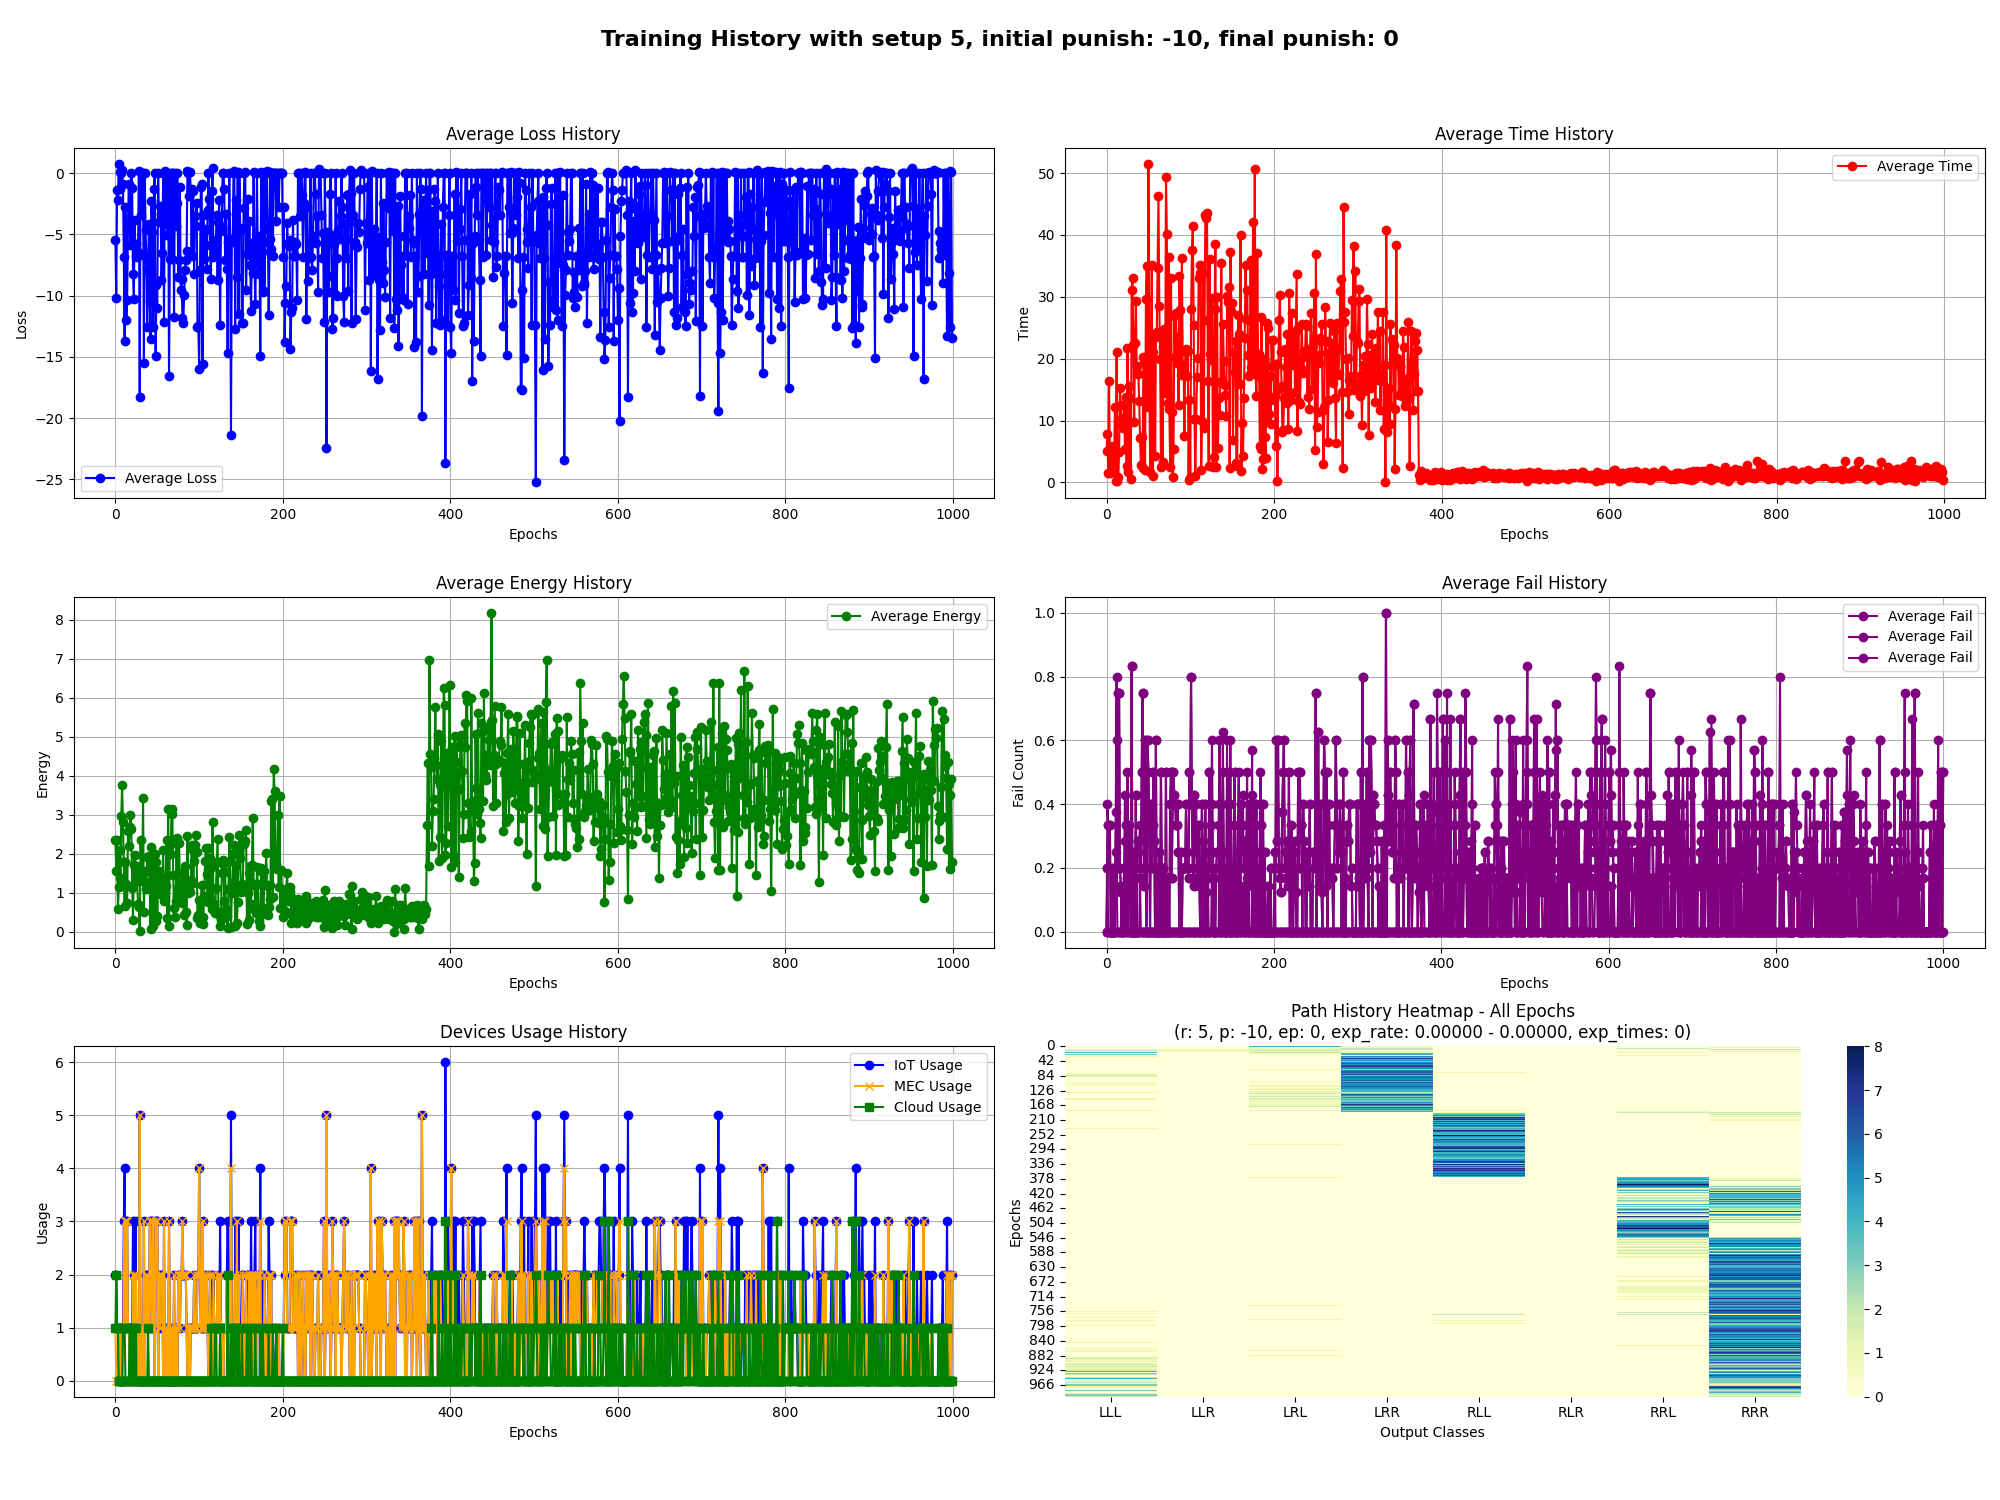
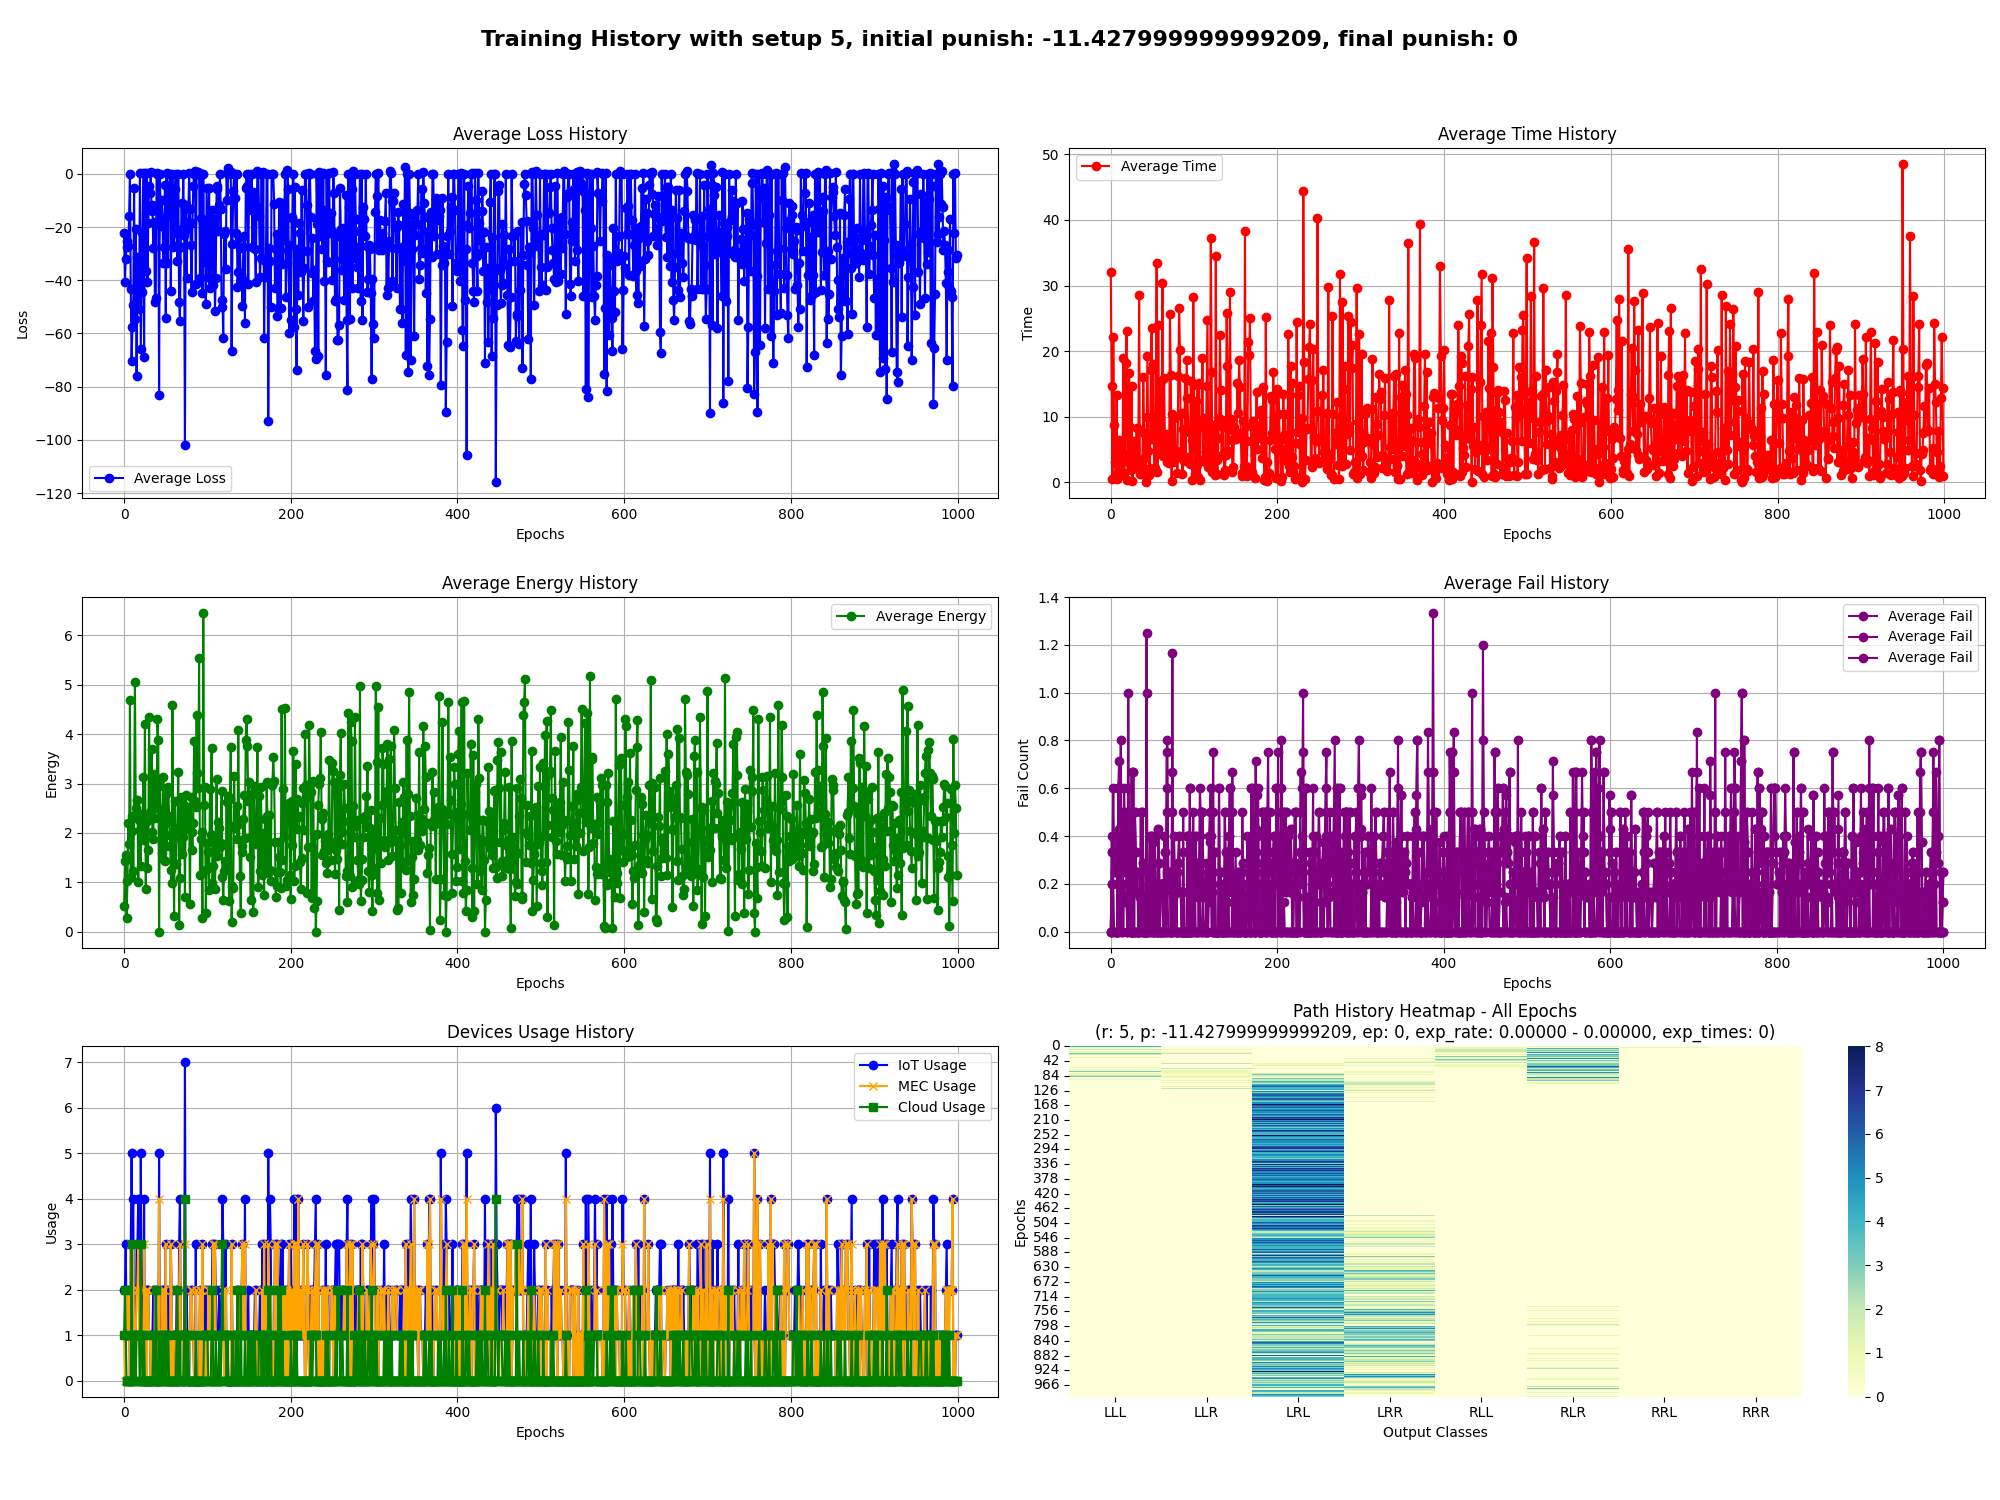
forest removed,increasing punish,explroe  and setups implemented

diff --git a/data/config.py b/data/config.py
@@ -73,43 +73,35 @@ jobs_config = {
 
 
 learning_config={
-    "tree":"clustree", # ddt
-    """
-        ddt :  ddt 
-        device-ddt :  ddt + pe features
-        soft-ddt :  soft tree
-        soft-device-ddt :  soft tree + pe feature
-        clustree : clustree 
-        device-clustree : clustree + pe features
-    """
+    "tree":"soft-ddt", # ddt
     
-    "subtree":"forest", # choosing core & dvfs from a forst of trees (a tree per device)
-    "subtree":"first-choice", # choosing first availiable core and the first dvfs
-    "subtree_max_depth":"3", # choosing first availiable core and the first dvfs
-    "subtree_lr":"0.005", # choosing first availiable core and the first dvfs
-    
-    
+    #    ddt :  ddt 
+    #    device-ddt :  ddt + pe features
+    #    soft-ddt :  soft tree
+    #    soft-device-ddt :  soft tree + pe feature
+    #    clustree : clustree 
+    #    device-clustree : clustree + pe features
     
     "rewardSetup":5, 
-    """
-        1 : -1 * (alpha * e + beta * t)
-        2 : 1 / (alpha * e + beta * t)
-        3 : -np.exp(alpha * e) - np.exp(beta * t)
-        4 : -np.exp(alpha * e + beta * t)
-        5 : np.exp(-1 * (alpha * e + beta * t))
-        6 : -np.log(alpha * e + beta * t)
-        7 : -((alpha * e + beta * t) ** 2)
-    """
+       
+    #   1 : -1 * (alpha * e + beta * t)
+    #   2 : 1 / (alpha * e + beta * t)
+    #   3 : -np.exp(alpha * e) - np.exp(beta * t)
+    #   4 : -np.exp(alpha * e + beta * t)
+    #   5 : np.exp(-1 * (alpha * e + beta * t))
+    #   6 : -np.log(alpha * e + beta * t)
+    #   7 : -((alpha * e + beta * t) ** 2)
+    
     "alpha":1, # energy coffeicent in the reware
     "beta":1, # time coffeicent in the reware
+    
     "increasing_punish":True,
-    "punish":1, 
     "init_punish":-10,
+    "punish_epsilon":-0.001,
     
     "should_explore":True,
     "explore_epsilon":True,
     "num_jobs":1000,
-    
     
     "tree_max_depth":3,
 

diff --git a/utils.py b/utils.py
@@ -4,6 +4,8 @@ from typing import Counter
 from sklearn.cluster import KMeans
 from data.config import learning_config
 from data.db import Database
+
+# FEATURE EXTRACTION
 def get_input(task):
     if learning_config['onehot_kind']:
         task_features = [
@@ -50,9 +52,18 @@ def extract_pe_data(pe):
 
     return [devicePower, battery]
 
-def reward_function(setup=5, e=0, alpha=1, t=0, beta=1, punish=0):
-    if punish:
-        return -10
+# REWARDS AND PUNISHMENTS
+def reward_function(e=0,t=0,punish=0):
+    setup = learning_config['rewardSetup']
+    alpha = learning_config['alpha']
+    beta = learning_config['beta']
+    
+    if punish and learning_config['increasing_punish']:
+        learning_config['init_punish'] += learning_config['punish_epsilon']
+    
+    if punish :
+        return learning_config['init_punish']
+
 
     if setup == 1:
         return -1 * (alpha * e + beta * t)
@@ -69,12 +80,12 @@ def reward_function(setup=5, e=0, alpha=1, t=0, beta=1, punish=0):
     elif setup == 7:
         return -((alpha * e + beta * t) ** 2)
 
+# FORMULAS
 def calc_execution_time(device, task, core, dvfs):
     if device['id'] == "cloud":
         return task["computational_load"] / device["voltages_frequencies"][0]
     else:
         return task["computational_load"] / device["voltages_frequencies"][core][dvfs][0]
-
 
 def calc_power_consumption(device, task, core, dvfs):
     if device['id'] == "cloud":return 13.85 
@@ -143,11 +154,9 @@ def calc_total(device, task, core, dvfs):
     return totalTime , totalEnergy
 
 
-def regularize_any():
-    pass
 
 
-
+# CLUSTERING
 def balance_kmeans_cluster(devices,k=2, random_state=42):
     data = [extract_pe_data_for_clustering(device) for device in devices]
     if len(devices) < k:

diff --git a/env.py b/env.py
@@ -65,18 +65,22 @@ class Environment():
                 if devices:
                     selected_device_index = self.devices.index(devices[selected_device_index])
                     
-                path_job.append(path)
+                core_index = 0
+                (freq,vol) = self.devices[selected_device_index]['voltages_frequencies'][core_index][0]
+                reward, t, e, taskFail, safeFail = self.execute_action(pe_ID=selected_device_index,core_i=core_index,freq=freq,volt=vol,task_ID=task_id)
                 
-                    
-                reward, t, e, taskFail, safeFail = self.execute_action(pe_ID=selected_device_index,core_i=0,freq=1,volt=1,task_ID=task_id)
+                
                 
                 self.actor_critic.archive(input_state, action, reward)
+                
+                
                 
                 reward_job += reward
                 time_job += t
                 energy_job += e
                 fails = np.array([taskFail + safeFail, taskFail, safeFail])
                 fail_job += fails
+                path_job.append(path)
                 
             loss_job=self.actor_critic.calc_loss()
             self.monitor.update(time_job,energy_job,reward_job,loss_job,fail_job,usage_job,len(tasks),path_job)

diff --git a/monitor.py b/monitor.py
@@ -28,7 +28,7 @@ class Monitor():
 
         new_epoch_data = {
             "Setup": learning_config['rewardSetup'],
-            "Punishment": learning_config['punish'],
+            "Punishment": learning_config['init_punish'],
 
             "Average Loss":  sum(self.avg_loss_history)/num_epoch,
             "Last Epoch Loss": self.avg_loss_history[-1],
